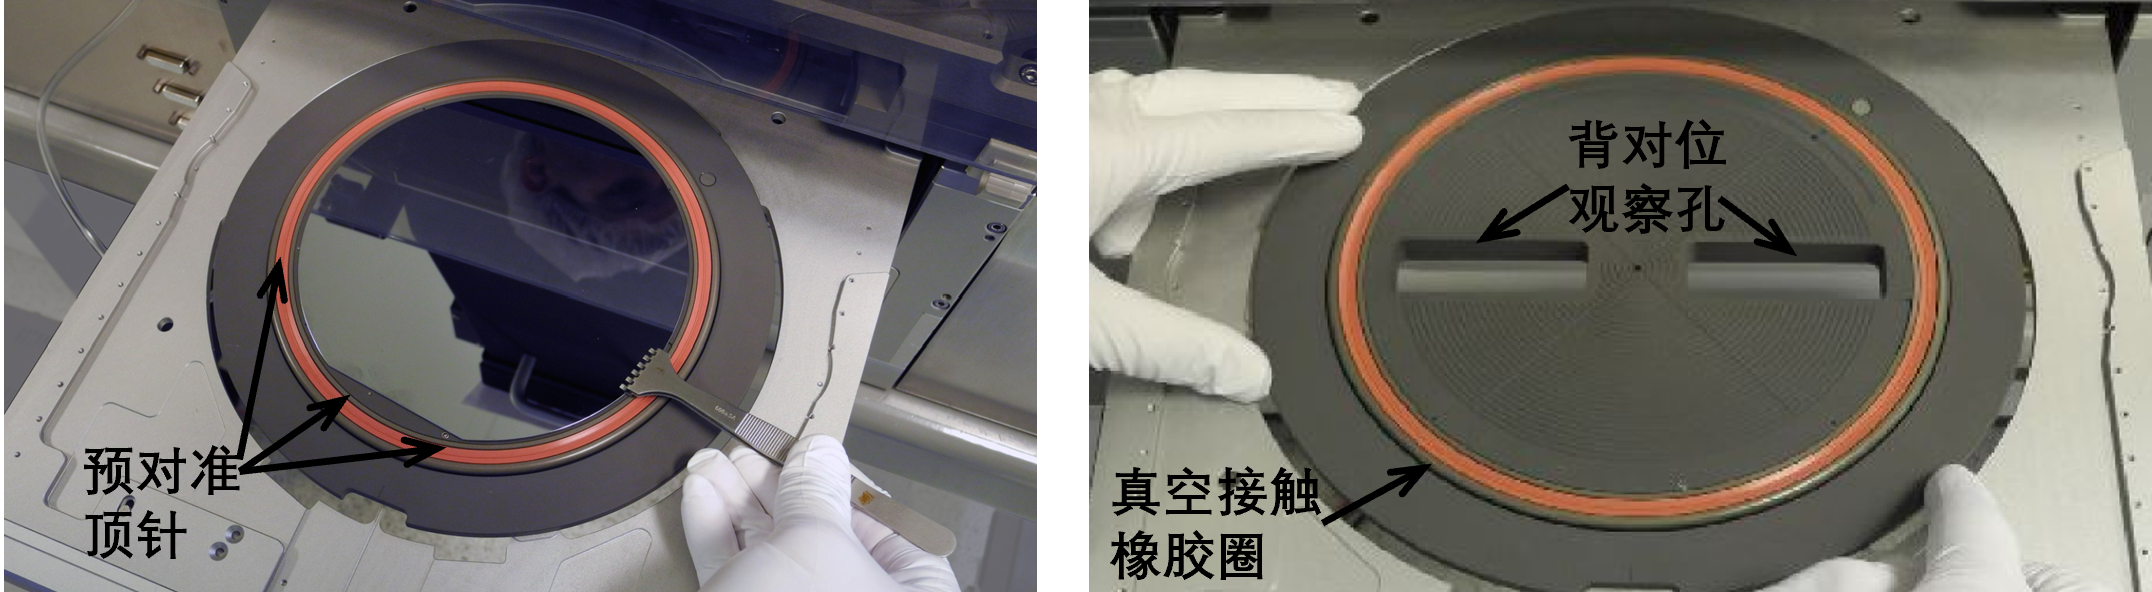
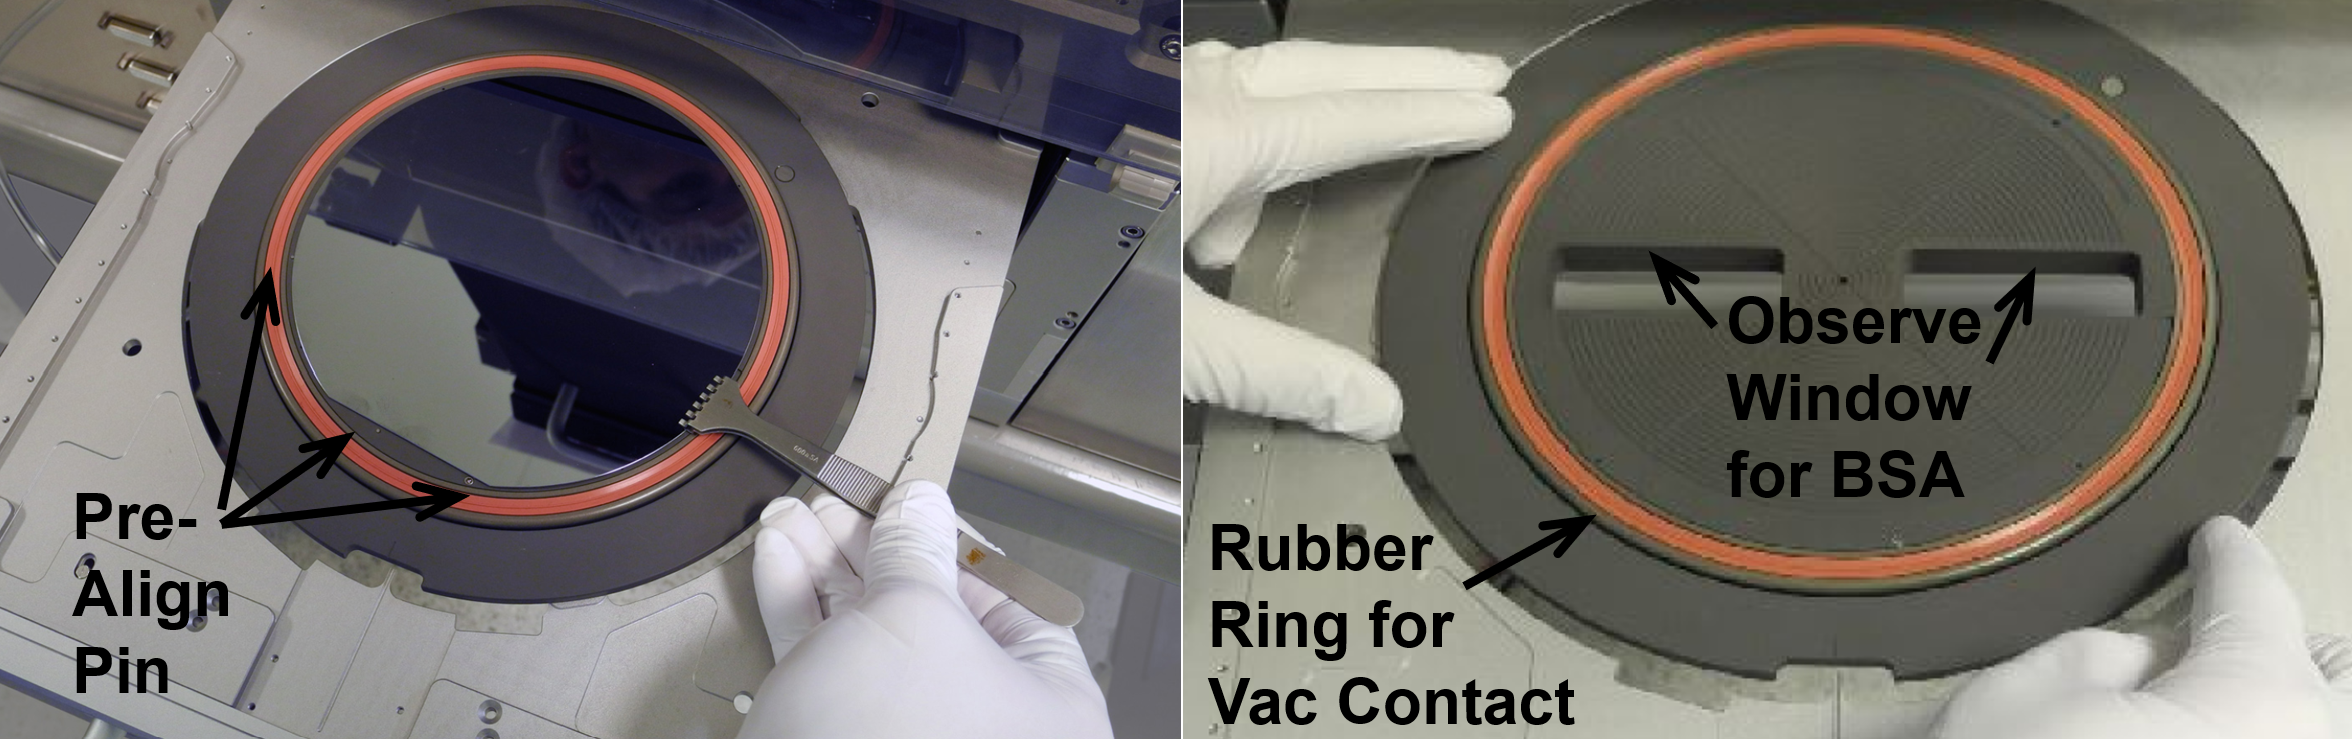
Add bond alignment, DA/CDC/IR images and keep expanded notes

diff --git a/js/app.js b/js/app.js
@@ -15,6 +15,10 @@ const MODELS = [
 const SECTIONS = [
   {
     id: "exposure_area", zh: "曝光范围", en: "Exposure Area", type: "radio",
+    notes:
+      "a. 曝光范围指单次曝光所能覆盖的晶圆区域尺寸，应与晶圆尺寸及掩模版尺寸相匹配。<br/>" +
+      "b. 圆形（Round）曝光适合大多数圆形晶圆，光斑为圆形；方形（Squared）曝光适合方形基片或需整片曝光的大面积图形，光斑为方形。<br/>" +
+      "c. 不同机型支持的曝光范围不同：MJB4 支持 4″，MA/BA6 Gen4 支持 6″，MA/BA8 Gen4 支持 8″，MA12 Gen3 支持 12″。",
     options: [
       { id: "4round", zh: "4英寸圆形", en: '4" Round', models: ["mjb4"] },
       { id: "6round", zh: "6英寸圆形", en: '6" Round', models: ["maba6"] },
@@ -35,8 +39,8 @@ const SECTIONS = [
       { id: "tsa", zh: "TSA（仅正面）", en: "Top Side Alignment", imgs: ["images/TSA.png"] },
       { id: "tsa_bsa", zh: "TSA + BSA（正面 + 背面）", en: "Top + Bottom Side Alignment", imgs: ["images/TSA.png", "images/BSA.png"], models: ["maba6", "maba8", "ma12"] },
       { id: "bsa", zh: "BSA（仅背面）", en: "Bottom Side Alignment", imgs: ["images/BSA.png"], models: ["maba6", "maba8", "ma12"] },
-      { id: "ir_tsa", zh: "TSA + BSA + IR Visualization via TSA（正面 + 背面 + 红外背面光源，正面观察）", en: "TSA + BSA + IR Visualization via TSA", imgs: ["images/IR.png"], models: ["maba6", "maba8", "ma12"] },
-      { id: "ir_bsa", zh: "TSA + BSA + IR Visualization via BSA（正面 + 背面 + 红外正面光源，背面观察）", en: "TSA + BSA + IR Visualization via BSA", imgs: ["images/IR.png"], models: ["maba6", "maba8", "ma12"] },
+      { id: "ir_tsa", zh: "TSA + BSA + IR Visualization via TSA（正面 + 背面 + 红外背面光源，正面观察）", en: "TSA + BSA + IR Visualization via TSA", imgs: ["images/IR1.png"], models: ["maba6", "maba8", "ma12"] },
+      { id: "ir_bsa", zh: "TSA + BSA + IR Visualization via BSA（正面 + 背面 + 红外正面光源，背面观察）", en: "TSA + BSA + IR Visualization via BSA", imgs: ["images/IR2.png"], models: ["maba6", "maba8", "ma12"] },
       { id: "none", zh: "No Alignment（不做对准）", en: "No Alignment", models: ["maba6", "maba8", "ma12"] },
     ],
   },
@@ -90,7 +94,8 @@ const SECTIONS = [
     id: "exposure_mode", zh: "曝光能量控制", en: "Exposure Dosage Control Mode", type: "radio",
     visible: () => state.model !== "mjb4",
     notes:
-      "CPC 即恒定功率模式，通过曝光时间控制曝光量；CDC 即恒定剂量模式，可直接输入剂量，使用更方便。CDC 包含 CPC 功能。建议研发单位仅配置 CPC 模式。",
+      "CPC 即恒定功率模式，通过曝光时间控制曝光量；CDC 即恒定剂量模式，可直接输入剂量，使用更方便。CDC 包含 CPC 功能。建议研发单位仅配置 CPC 模式。" +
+      '<figure class="note-img"><img src="images/CDC.png?v=20261109" alt="曝光能量控制 CPC / CDC" loading="lazy" /></figure>',
     options: [
       { id: "cpc", zh: "CPC 通过曝光时间控制", en: "Constant Power Mode (CPC)" },
       { id: "cdc", zh: "CDC 直接控制曝光剂量", en: "Constant Dose Mode (CDC)" },
@@ -100,7 +105,9 @@ const SECTIONS = [
     id: "auto_alignment", zh: "对准自动化", en: "Automatic Alignment", type: "radio",
     visible: () => state.model !== "mjb4",
     notes:
-      "MA6 / MA8 可配自动对位 Auto Alignment（对位精度 ±0.5 µm for TSA），或超高精度 Direct Alignment（对位精度 ±0.25 µm）。",
+      "MA6 / MA8 可配自动对位 Auto Alignment（对位精度 ±0.5 µm for TSA），或超高精度 Direct Alignment（对位精度 ±0.25 µm）。<br/>" +
+      "下图为超高精度直接对准（DirectAlign®）的解释。" +
+      '<figure class="note-img"><img src="images/DA.png?v=20261109" alt="超高精度直接对准 DirectAlign" loading="lazy" /></figure>',
     options: [
       { id: "manual", zh: "手动对准 Full Manual Alignment", en: "Full Manual Alignment" },
       { id: "auto", zh: "自动对准 Auto Alignment（±0.5 µm）", en: "Auto Alignment" },
@@ -125,6 +132,18 @@ const CHUCK_OPTIONS = [
   { id: "bsa", zh: "支持背面对准", en: "BSA (Backside Alignment)" },
   { id: "teflon", zh: "支持抗反射涂层", en: "Teflon / Anti-reflection Coating" },
 ];
+
+const BOND_SIZES = [
+  { id: "ba8", zh: "8英寸晶圆 键合对准", en: '8" BA' },
+  { id: "ba6", zh: "6英寸晶圆 键合对准", en: '6" BA' },
+  { id: "ba4", zh: "4英寸晶圆 键合对准", en: '4" BA' },
+  { id: "ba_pieces", zh: "3英寸及以下小片", en: '3" and Pieces BA' },
+];
+
+const BOND_ALIGNMENT_NOTES =
+  "a. 键合对准用于键合（Bonding）工艺中晶圆与小片的对准，可按工艺需求同时选择多种晶圆尺寸。<br/>" +
+  "b. 支持 8″、6″、4″ 晶圆以及 3″ 及以下小片，可根据产线需求多选。<br/>" +
+  "c. 若需在键合对准机上直接完成对准（无需转移至对准机），可额外勾选「直接对准」选项。";
 
 const NON_STANDARD_CHUCK_MA = [
   { id: "ma-1", sizes: '5×5/10×10/20×20 mm', bsa: false, vacuum: false, teflon: false },
@@ -206,6 +225,7 @@ const state = {
   selection: {},       // { sectionId: optionId | [optionId,...] }
   chucks: [],          // [{ waferSize, options:Set }]
   maskHolders: [],     // [{ options:Set }]
+  bondAlignment: null, // null 或 { sizes:[], direct:false }
 };
 
 const MODEL_SHORT = { mjb4: "MJB4", maba6: "MA6", maba8: "MA8", ma12: "MA12" };
@@ -232,17 +252,32 @@ function renderSections() {
   let html = "";
   let idx = 0;
   let dynamicsInserted = false;
+  let bondInserted = false;
   SECTIONS.forEach((sec) => {
-    if (sec.visible && !sec.visible(state.selection)) return;
+    const hidden = sec.visible && !sec.visible(state.selection);
     if (sec.id === "exposure_mode" && !dynamicsInserted) {
       html += renderChuckSection(++idx);
       html += renderMaskHolderSection(++idx);
       dynamicsInserted = true;
     }
+    if (sec.id === "accessories" && !bondInserted) {
+      if (state.model === "maba6" || state.model === "maba8") {
+        html += renderBondAlignmentSection(++idx);
+      }
+      bondInserted = true;
+    }
+    if (hidden) return;
     idx++;
     html += renderSection(sec, idx);
   });
+  const openNotes = [...wrap.querySelectorAll("[data-notes]:not(.hidden)")].map((n) => n.dataset.notes);
   wrap.innerHTML = html;
+  openNotes.forEach((id) => {
+    const notes = wrap.querySelector(`[data-notes="${id}"]`);
+    if (notes) notes.classList.remove("hidden");
+    const btn = wrap.querySelector(`[data-note-toggle="${id}"]`);
+    if (btn) { btn.classList.add("active"); btn.textContent = "收起说明"; }
+  });
   updateAlignmentImage();
   renderExposureSchematic();
 }
@@ -278,16 +313,19 @@ function renderSection(sec, idx) {
     <div class="exposure-wrap">
       <div class="exposure-schematic" data-exposure-schematic></div>
       <figure class="exposure-photo">
-        <img src="images/Exposure.png" alt="曝光范围示意图" loading="lazy" />
+        <img src="images/Exposure.png?v=20261109" alt="曝光范围示意图" loading="lazy" />
       </figure>
     </div>` : "";
-  const noteContent = sec.id === "exposure_area" ? schematic : (sec.notes || "");
+  const noteContent = sec.id === "exposure_area" ? (sec.notes || "") + schematic
+    : sec.id === "alignment" ? (sec.notes || "") + gallery
+    : (sec.notes || "");
   const notes = noteContent ? `<div class="notes hidden" data-notes="${sec.id}">${noteContent}</div>` : "";
 
   return `
     <section class="section" data-section="${sec.id}">
       ${sectionHeader(sec, idx)}
-      <div class="section-body">${opts}${notes}${gallery}</div>
+      ${notes}
+      <div class="section-body">${opts}</div>
     </section>`;
 }
 
@@ -340,13 +378,13 @@ function renderChuckSection(idx) {
   return `
     <section class="section" data-section="chuck">
       ${dynamicHeader(idx, "晶圆吸盘", "Chuck and Mask Holder — Chuck", "chuck")}
+      <div class="notes hidden" data-notes="chuck">${CHUCK_NOTES}<figure class="note-img"><img src="images/Chuck.png?v=20261109" alt="晶圆吸盘 Chuck" loading="lazy" /></figure></div>
       <div class="section-body">
         <div class="dyn-controls">
           <button class="btn icon-btn" data-action="add-chuck" title="增加晶圆吸盘 Add Chuck">＋</button>
           <button class="btn icon-btn" data-action="reset-chucks" title="重置 Reset">↻</button>
         </div>
         ${rows || '<p class="summary-empty">尚未添加晶圆吸盘，点击上方按钮添加。</p>'}
-        <div class="notes hidden" data-notes="chuck">${CHUCK_NOTES}</div>
       </div>
     </section>`;
 }
@@ -383,14 +421,52 @@ function renderMaskHolderSection(idx) {
   return `
     <section class="section" data-section="maskholder">
       ${dynamicHeader(idx, "掩模版架", "Chuck and Mask Holder — Mask Holder", "maskholder")}
+      <div class="notes hidden" data-notes="maskholder">${MASK_HOLDER_NOTES}<figure class="note-img"><img src="images/MaskHolder.png?v=20261109" alt="掩模版架 Mask Holder" loading="lazy" /></figure></div>
       <div class="section-body">
         <div class="dyn-controls">
           <button class="btn icon-btn" data-action="add-maskholder" title="增加掩模版架 Add Mask Holder">＋</button>
           <button class="btn icon-btn" data-action="reset-maskholders" title="重置 Reset">↻</button>
         </div>
         ${rows || '<p class="summary-empty">尚未添加掩模版架，点击上方按钮添加。</p>'}
-        <div class="notes hidden" data-notes="maskholder">${MASK_HOLDER_NOTES}</div>
       </div>
+    </section>`;
+}
+
+function renderBondAlignmentSection(idx) {
+  const ba = state.bondAlignment;
+  const active = !!ba;
+  const addBtn = active
+    ? '<button type="button" class="btn icon-btn" data-action="reset-bond" title="移除键合对准功能">✕</button>'
+    : '<button type="button" class="btn icon-btn bond-add" data-action="add-bond" title="添加键合对准功能">＋</button>';
+
+  const sizesHtml = active
+    ? `<div class="dyn-options">${BOND_SIZES.map((o) => {
+        const checked = ba.sizes.includes(o.id);
+        return `
+          <label class="option ${checked ? "selected" : ""}">
+            <input type="checkbox" data-action="bond-size" value="${o.id}" ${checked ? "checked" : ""} />
+            <span class="option-label"><span class="zh">${o.zh}</span><span class="en">${o.en}</span></span>
+          </label>`;
+      }).join("")}
+      </div>
+      <div class="bond-direct">
+        <label class="option ${ba.direct ? "selected" : ""}">
+          <input type="checkbox" data-action="bond-direct" value="direct" ${ba.direct ? "checked" : ""} />
+          <span class="option-label"><span class="zh">在对准机上进行直接键合</span><span class="en">Direct Alignment on Bond Aligner</span></span>
+        </label>
+      </div>`
+    : '<p class="summary-empty">尚未添加键合对准功能，点击上方按钮添加。</p>';
+
+  return `
+    <section class="section bond-section ${active ? "" : "bond-disabled"}" data-section="bond_alignment">
+      <div class="section-head">
+        <span class="idx">${idx}</span>
+        ${addBtn}
+        <div><h3>键合对准</h3><p class="en">Automatic Alignment</p></div>
+        <button type="button" class="note-toggle" data-note-toggle="bond_alignment">进一步了解</button>
+      </div>
+      <div class="notes hidden" data-notes="bond_alignment">${BOND_ALIGNMENT_NOTES}<figure class="note-img"><img src="images/BA.png?v=20261109" alt="键合对准 Bond Alignment" loading="lazy" /></figure></div>
+      <div class="section-body">${sizesHtml}</div>
     </section>`;
 }
 
@@ -427,7 +503,7 @@ function updateAlignmentImage() {
   if (!imgs.length) { gallery.innerHTML = ""; gallery.style.display = "none"; return; }
   gallery.style.display = "grid";
   gallery.innerHTML = imgs.map((src) => `
-    <figure class="align-item"><img src="${src}" alt="${opt.zh}" loading="lazy" /></figure>`).join("");
+    <figure class="align-item"><img src="${src}?v=20261109" alt="${opt.zh}" loading="lazy" /></figure>`).join("");
 }
 
 const WAFER_MM = { "4": 100, "6": 150, "8": 200, "12": 300 };
@@ -556,6 +632,8 @@ function onSectionsChange(e) {
     else if (action === "maskholder-opening") { const s = state.maskHolders[i].options; s.delete("round"); s.delete("square"); s.add(t.value); }
     else if (action === "chuck-nonstandard") state.chucks[i].nonStandard = t.value;
     else if (action === "maskholder-size") state.maskHolders[i].openingSize = t.value;
+    else if (action === "bond-size") { if (state.bondAlignment) { const s = new Set(state.bondAlignment.sizes); t.checked ? s.add(t.value) : s.delete(t.value); state.bondAlignment.sizes = [...s]; } }
+    else if (action === "bond-direct") { if (state.bondAlignment) state.bondAlignment.direct = t.checked; }
     updateSummary();
     return;
   }
@@ -599,6 +677,8 @@ function onSectionsClick(e) {
     case "add-maskholder": state.maskHolders.push({ openingSize: defaultChuckWafer(state.model), options: new Set() }); break;
     case "remove-maskholder": state.maskHolders.splice(i, 1); break;
     case "reset-maskholders": state.maskHolders = []; break;
+    case "add-bond": state.bondAlignment = { sizes: [], direct: false }; break;
+    case "reset-bond": state.bondAlignment = null; break;
     default: return;
   }
   renderSections();
@@ -627,6 +707,7 @@ function cleanSelectionForModel() {
       }
     }
   });
+  if (state.model !== "maba6" && state.model !== "maba8") state.bondAlignment = null;
 }
 
 function onModelClick(e) {
@@ -643,7 +724,7 @@ function onModelClick(e) {
     if (!mhSizes.includes(m.openingSize)) m.openingSize = defaultChuckWafer(state.model);
   });
   cleanSelectionForModel();
-  if (state.model === "mjb4") state.selection.light_source = "led";
+  if (state.model === "mjb4") { state.selection.light_source = "led"; state.selection.alignment = "tsa"; state.selection.exposure_area = "4round"; }
   renderModelSelector();
   renderSections();
   updateSummary();
@@ -692,6 +773,13 @@ function updateSummary() {
     items.push({ key: `Mask Holder #${i + 1}`, val: [m.openingSize, ...opts].join(" · ") || "未指定" });
   });
 
+  if (state.bondAlignment) {
+    const sizes = state.bondAlignment.sizes.map((id) => (BOND_SIZES.find((o) => o.id === id) || {}).zh || id);
+    const parts = [...sizes];
+    if (state.bondAlignment.direct) parts.push("在对准机上进行直接键合");
+    items.push({ key: "键合对准", val: parts.join(" · ") || "未指定" });
+  }
+
   list.innerHTML = items.length
     ? items.map((it) => `<div class="summary-item"><div class="s-key">${it.key}</div><div class="s-val">${it.val}</div></div>`).join("")
     : '<p class="summary-empty">尚未选择任何配置项</p>';
@@ -721,6 +809,7 @@ function serializeState() {
     selection: state.selection,
     chucks: state.chucks.map((c) => ({ waferSize: c.waferSize, options: [...c.options], nonStandard: c.nonStandard || "" })),
     maskHolders: state.maskHolders.map((m) => ({ openingSize: m.openingSize || "", options: [...m.options] })),
+    bondAlignment: state.bondAlignment ? { sizes: [...state.bondAlignment.sizes], direct: state.bondAlignment.direct } : null,
   };
 }
 
@@ -732,7 +821,7 @@ function deserializeState(data) {
   $("#quote-date").value = data.date || "";
   state.selection = data.selection || {};
   cleanSelectionForModel();
-  if (state.model === "mjb4") state.selection.light_source = "led";
+  if (state.model === "mjb4") { state.selection.light_source = "led"; state.selection.alignment = "tsa"; state.selection.exposure_area = "4round"; }
   state.chucks = (data.chucks || []).map((c) => {
     const sizes = chuckWaferSizes(state.model);
     const presets = nonStandardChucks(state.model);
@@ -745,6 +834,10 @@ function deserializeState(data) {
     const openingSize = sizes.includes(m.openingSize) ? m.openingSize : defaultChuckWafer(state.model);
     return { openingSize, options: new Set(m.options || []) };
   });
+  state.bondAlignment = data.bondAlignment && Array.isArray(data.bondAlignment.sizes)
+    ? { sizes: data.bondAlignment.sizes.filter((id) => BOND_SIZES.some((o) => o.id === id)), direct: !!data.bondAlignment.direct }
+    : null;
+  if (state.model !== "maba6" && state.model !== "maba8") state.bondAlignment = null;
   renderModelSelector();
   renderSections();
   updateSummary();
@@ -801,6 +894,7 @@ function resetAll() {
   state.selection = {};
   state.chucks = [];
   state.maskHolders = [];
+  state.bondAlignment = null;
   $("#customer-name").value = "";
   $("#owner-name").value = "";
   $("#quote-date").valueAsDate = new Date();

diff --git a/css/style.css b/css/style.css
@@ -235,7 +235,7 @@ body {
 .option-note { color: var(--muted); font-size: 12px; margin-top: 2px; }
 
 .notes {
-  margin: 10px 0 0;
+  margin: 10px 0 12px;
   padding: 10px 12px;
   background: #fbfcfd;
   border-left: 3px solid var(--brand-soft);
@@ -245,6 +245,11 @@ body {
 }
 .notes.hidden { display: none; }
 .notes strong { color: var(--ink); }
+.note-img { margin: 12px 0 4px; text-align: center; }
+.note-img img { max-width: 100%; max-height: 240px; border-radius: 6px; }
+.bond-direct { margin-top: 12px; padding-top: 12px; border-top: 1px dashed #d7dee8; }
+.bond-section.bond-disabled .section-head > div,
+.bond-section.bond-disabled .section-body { opacity: 0.45; }
 
 .note-toggle {
   margin-left: auto;

diff --git a/index.html b/index.html
@@ -5,7 +5,7 @@
   <meta name="viewport" content="width=device-width, initial-scale=1.0, user-scalable=yes, maximum-scale=5.0" />
   <title>SUSS 光刻机配置器 · MJB4 / MA6 / MA8 / MA12</title>
   <meta name="description" content="SUSS MicroTec MJB4、MA/BA6 Gen4、MA/BA8 Gen4 与 MA12 Gen3 掩模/键合对准机配置工具" />
-  <link rel="stylesheet" href="css/style.css?v=20261109-header17" />
+  <link rel="stylesheet" href="css/style.css?v=20261109-header21" />
 </head>
 <body>
   <header class="topbar">
@@ -89,6 +89,6 @@
     </p>
   </footer>
 
-  <script src="js/app.js?v=20261108-uv26"></script>
+  <script src="js/app.js?v=20261108-uv41"></script>
 </body>
 </html>
